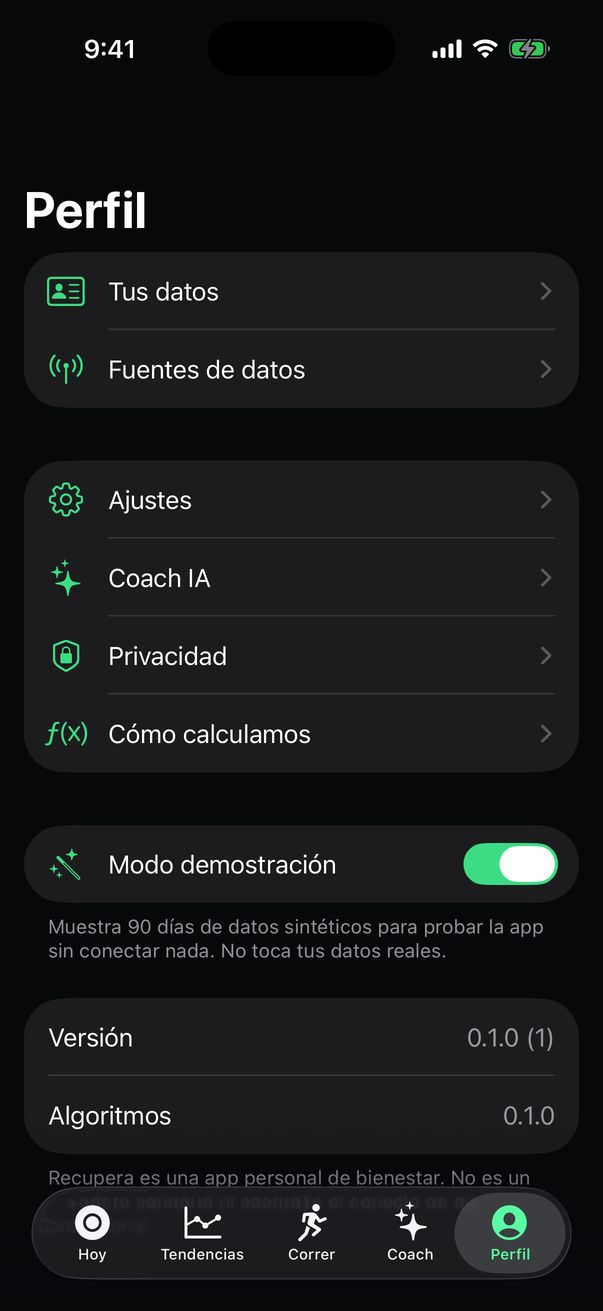
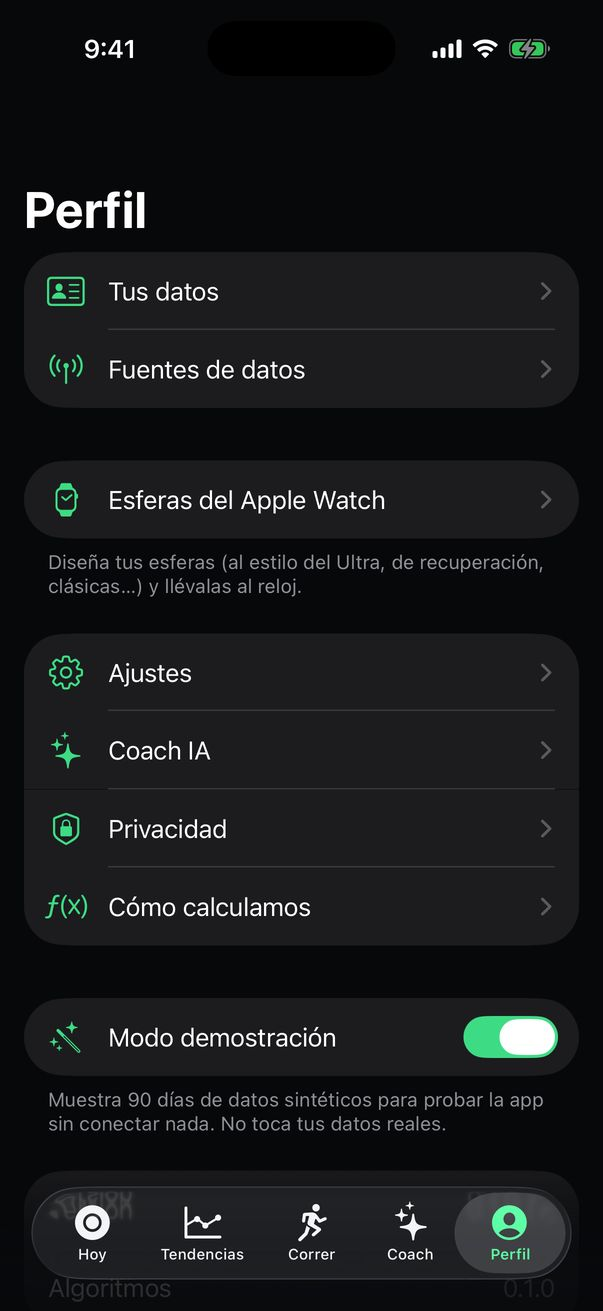
Galería del README con las esferas del Apple Watch; la guía pide crear los dos App IDs del reloj
- Capturas de la ejecución 46: cada plantilla en el simulador del reloj, el
  modo noche, la galería y el editor del iPhone (y todas las demás, al día).
- La clave de App Store Connect no puede dar de alta App IDs al archivar:
  «Comprobar configuración» y el doc. 17 piden crear a mano los del Watch.

Claude-Session: https://claude.ai/code/session_01RwbGtxZYC2c3JdXsgAPTdJ

diff --git a/scripts/preflight.py b/scripts/preflight.py
@@ -180,17 +180,16 @@ def check_app_ids(found):
             fail(f"{label}: falta activar {', '.join(missing)} en su App ID.")
         else:
             ok(f"{label} registrado con {' y '.join(NAMES[c] for c in needs)}.")
-    # La app del Apple Watch y sus complicaciones (doc. 19): la firma automática los crea al archivar; si no pudiera,
-    # se crean a mano igual que los de arriba.
+    # La app del Apple Watch y sus complicaciones (doc. 19): la clave no puede darlos de alta al archivar, se crean a mano.
     for ident, needs, label in ((bundle + ".watchkitapp", ("HEALTHKIT", "APP_GROUPS"), "App ID de la app del Watch"),
                                 (bundle + ".watchkitapp.widgets", ("APP_GROUPS",), "App ID de las complicaciones del Watch")):
         if ident not in found:
-            warn(f"{label} ({ident}) aún sin registrar: la compilación intentará crearlo; si falla al archivar, créalo con "
-                 f"{' y '.join(NAMES[c] for c in needs)} (doc. 17, parte A).")
+            fail(f"{label} sin registrar: créalo ({ident}) con {' y '.join(NAMES[c] for c in needs)} y tu grupo "
+                 f"(doc. 17, parte A, paso 5).")
             continue
         missing = [NAMES[c] for c in needs if c not in found[ident]]
         if missing:
-            warn(f"{label}: falta activar {', '.join(missing)} en su App ID.")
+            fail(f"{label}: falta activar {', '.join(missing)} en su App ID.")
         else:
             ok(f"{label} registrado con {' y '.join(NAMES[c] for c in needs)}.")
 

diff --git a/docs/17-puesta-en-marcha.md b/docs/17-puesta-en-marcha.md
@@ -32,9 +32,10 @@ En [developer.apple.com/account](https://developer.apple.com/account):
 2. **App Group**: *Certificates, Identifiers & Profiles* → *Identifiers* → **+** → *App Groups* → descripción «Recupera», identificador `group.com.<tunombre>.recupera` → *Continue* → *Register*.
 3. **App ID de la app**: *Identifiers* → **+** → *App IDs* → *App* → descripción «Recupera», *Bundle ID* **Explicit** `com.<tunombre>.recupera` → en *Capabilities* marca **App Groups** y **HealthKit** → *Continue* → *Register*. Después ábrelo, en *App Groups* pulsa **Configure**, marca tu grupo y guarda (*Save*).
 4. **App ID de los *widgets***: igual, con descripción «Recupera Widgets», *Bundle ID* `com.<tunombre>.recupera.widgets` y solo **App Groups** (configurado con el mismo grupo).
-5. **App del Apple Watch** (doc. 19): la firma automática crea sola sus dos App IDs al archivar. Solo si el archivado fallara por ellos, créalos igual que los anteriores:
-   - `com.<tunombre>.recupera.watchkitapp`, con **HealthKit** y **App Groups**;
-   - `com.<tunombre>.recupera.watchkitapp.widgets`, solo con **App Groups** (los dos con el mismo grupo).
+5. **App del Apple Watch** (doc. 19): dos App IDs más, igual que los anteriores (la clave de GitHub no puede darlos de alta sola):
+   - `com.<tunombre>.recupera.watchkitapp`, descripción «Recupera Watch», con **HealthKit** y **App Groups**;
+   - `com.<tunombre>.recupera.watchkitapp.widgets`, descripción «Recupera Watch Complicaciones», solo con **App Groups**.
+   En los dos, abre *App Groups* → **Configure**, marca tu grupo y guarda.
 
 No hay que activar nada para la Live Activity, AlarmKit ni los avisos: van en el propio código.
 

diff --git a/README.md b/README.md
@@ -75,6 +75,14 @@ Generadas automáticamente en el simulador (iPhone, iOS 26) por el *workflow* **
 | **Series detectadas** | **Tus segmentos** | **Segmentos de una carrera** | |
 | ![Series detectadas sin marcar vueltas](docs/capturas/correr-series.jpg) | ![Segmentos propios con tu mejor tiempo](docs/capturas/correr-segmentos.jpg) | ![Posición de cada pasada entre todas las tuyas](docs/capturas/carrera-segmentos.jpg) | |
 
+**Apple Watch** ([doc. 19](docs/19-esferas-apple-watch.md)): tus esferas, diseñadas en el iPhone, a pantalla completa en la app del reloj.
+
+| Ultra modular | Explorador | Explorador en modo noche | Recuperación |
+|---|---|---|---|
+| ![Esfera Ultra modular con los segundos por el borde](docs/capturas/watch-ultra-modular.jpg) | ![Esfera Explorador con bisel de brújula](docs/capturas/watch-explorador.jpg) | ![Modo noche en rojo](docs/capturas/watch-explorador-noche.jpg) | ![Esfera de recuperación](docs/capturas/watch-recuperacion.jpg) |
+| **Clásica** | **Digital XL** | **Tus esferas (iPhone)** | **Editor** |
+| ![Esfera clásica de agujas](docs/capturas/watch-clasica.jpg) | ![Esfera Digital XL](docs/capturas/watch-digital.jpg) | ![Galería de esferas en el iPhone](docs/capturas/esferas.jpg) | ![Editor de esferas con vista previa](docs/capturas/esferas-editor.jpg) |
+
 En el modo demostración, el resumen matinal, el informe semanal y el análisis de cada carrera son **textos de ejemplo** (se indica en la tarjeta); con el Coach activado los redacta la IA con tus datos.
 
 ## Código
